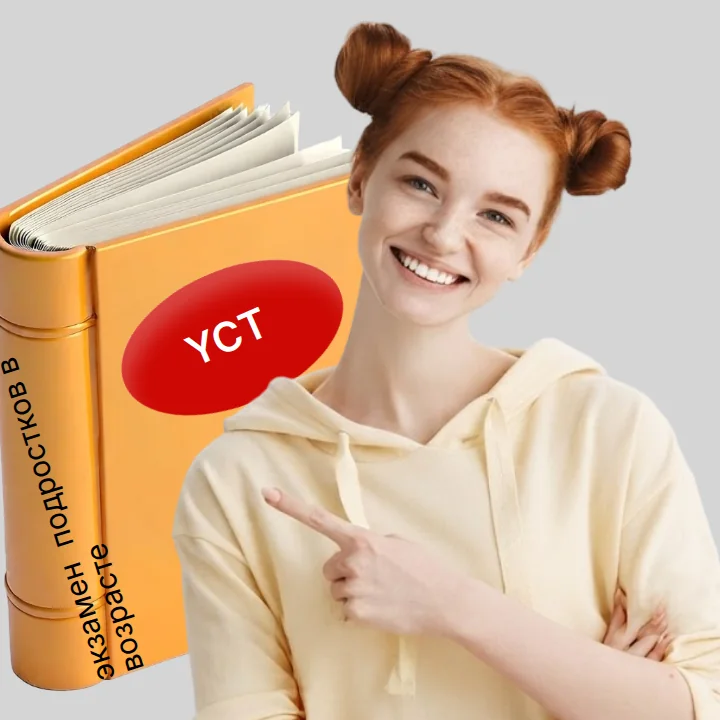
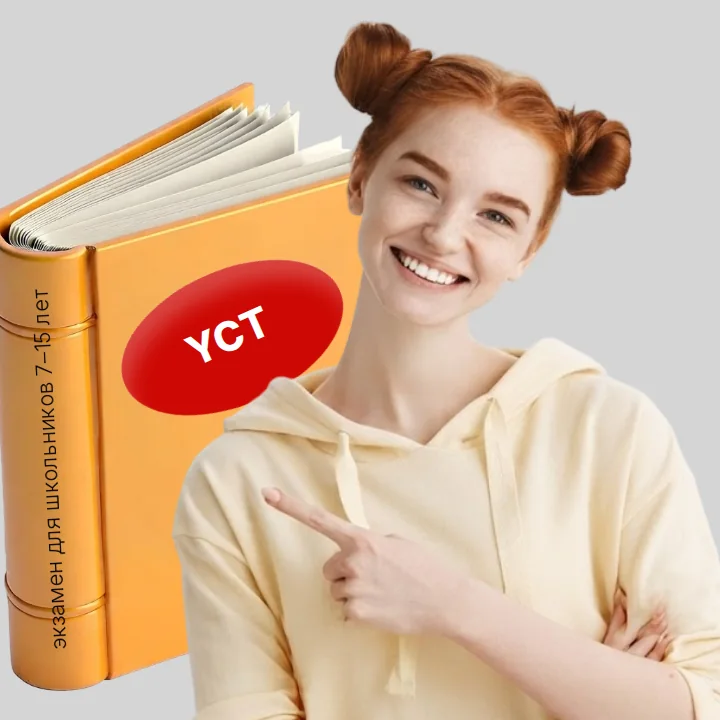
Lead block grows for captcha on desktop, tight wide card, YCT spine text, narrow phone field
- Desktop lead: block gets taller when SmartCaptcha appears; photo, clouds,
  stars and contacts move down with it (no overlap with the button).
- Mobile/tablet: form status is a normal line under the button.
- «Для студентов» wide card fits its text (no empty bottom).
- YCT hero: spine text redrawn along the book: «экзамен для школьников 7–15 лет».
- 344px: phone number fits the field.
- CLAUDE.md: list of items pending from the client.

Claude-Session: https://claude.ai/code/session_016bCrE8TPA3Yzew2wv7KCNp

Changed region(s): [[0.0, 0.4889, 0.2139, 0.9472], [0.275, 0.4278, 0.3667, 0.4889], [0.0306, 0.3972, 0.0917, 0.4889]]

diff --git a/css/style.css b/css/style.css
@@ -4690,6 +4690,7 @@ body.is-drawer-open { overflow: hidden; }
 .approach-card--compact .approach-card__title { margin: 0; font-size: 18px; line-height: 1.25; }
 
 .approach-card--wide { grid-column: 1 / -1; }
+.approach__grid--cards .approach-card--wide { min-height: 0; }
 
 .approach__outro {
   margin-top: 24px;
@@ -4908,4 +4909,46 @@ body.is-drawer-open { overflow: hidden; }
 
 @media (prefers-reduced-motion: reduce) {
   .story__mark, .story__img { transition: none; }
+}
+
+/* ---------- Капча в блоке заявки на ПК: блок вырастает вниз, фото и декор едут вместе с низом ---------- */
+@media (min-width: 1024px) {
+  .lead__inner { --grow: 0px; height: calc(461px + var(--grow)); transition: height .35s ease; }
+  .lead__inner:has(.captcha:not([hidden])) { --grow: 116px; }
+  .lead__photo { top: var(--grow); }
+  .lead__clouds { top: calc(307px + var(--grow)); }
+  .lead__stars { top: calc(324.8px + var(--grow)); }
+  .lead__caption { top: calc(405px + var(--grow)); }
+  .lead__contacts { top: calc(331px + var(--grow)); }
+  .mission .lead__photo { top: calc(-10px + var(--grow)); }
+  .mission .lead__stars { top: calc(318px + var(--grow)); }
+  .mission .lead__clouds { top: calc(307px + var(--grow)); }
+
+  .lead__photo,
+  .lead__clouds,
+  .lead__stars,
+  .lead__caption,
+  .lead__contacts { transition: top .35s ease; }
+}
+
+@media (min-width: 1024px) and (prefers-reduced-motion: reduce) {
+  .lead__inner,
+  .lead__photo,
+  .lead__clouds,
+  .lead__stars,
+  .lead__caption,
+  .lead__contacts { transition: none; }
+}
+
+/* мобильные и планшет: подсказка формы — обычной строкой под кнопкой, не поверх контактов */
+@media (max-width: 1023.98px) {
+  .lead__status { position: static; margin-top: 6px; }
+  .lead__status:empty { display: none; }
+}
+
+/* узкий экран (Fold снаружи ~344): номер телефона целиком */
+@media (max-width: 379.98px) {
+  .lead__input { padding-right: 12px; }
+  .lead__input--phone { padding-left: 62px; letter-spacing: -.02em; }
+  .lead__country { left: 14px; }
 }

diff --git a/CLAUDE.md b/CLAUDE.md
@@ -63,3 +63,10 @@
 - 1024–1439: десктоп масштабируется целиком (`zoom`, `--page-zoom` из JS).
 - Скругления только токенами: `--r-xl` 40, `--r-md` 20, `--r-frame` 16, `--r-card` 13, `--r-sm` 10, `--r-pill`.
 - Анимации спокойные, с учётом `prefers-reduced-motion`.
+
+## Осталось сделать (ждём от заказчицы)
+- Данные самозанятости — для реквизитов в подвале и документов.
+- Баннер cookie (принять / отклонить) + Яндекс Метрика только после согласия (закон о cookie / 152-ФЗ).
+- Документы: политика обработки ПДн, согласие на обработку, политика cookie, оферта — ссылки в формах и подвале.
+- Реальные ссылки на соцсети.
+- Финальный логотип (текущий — не окончательный).
